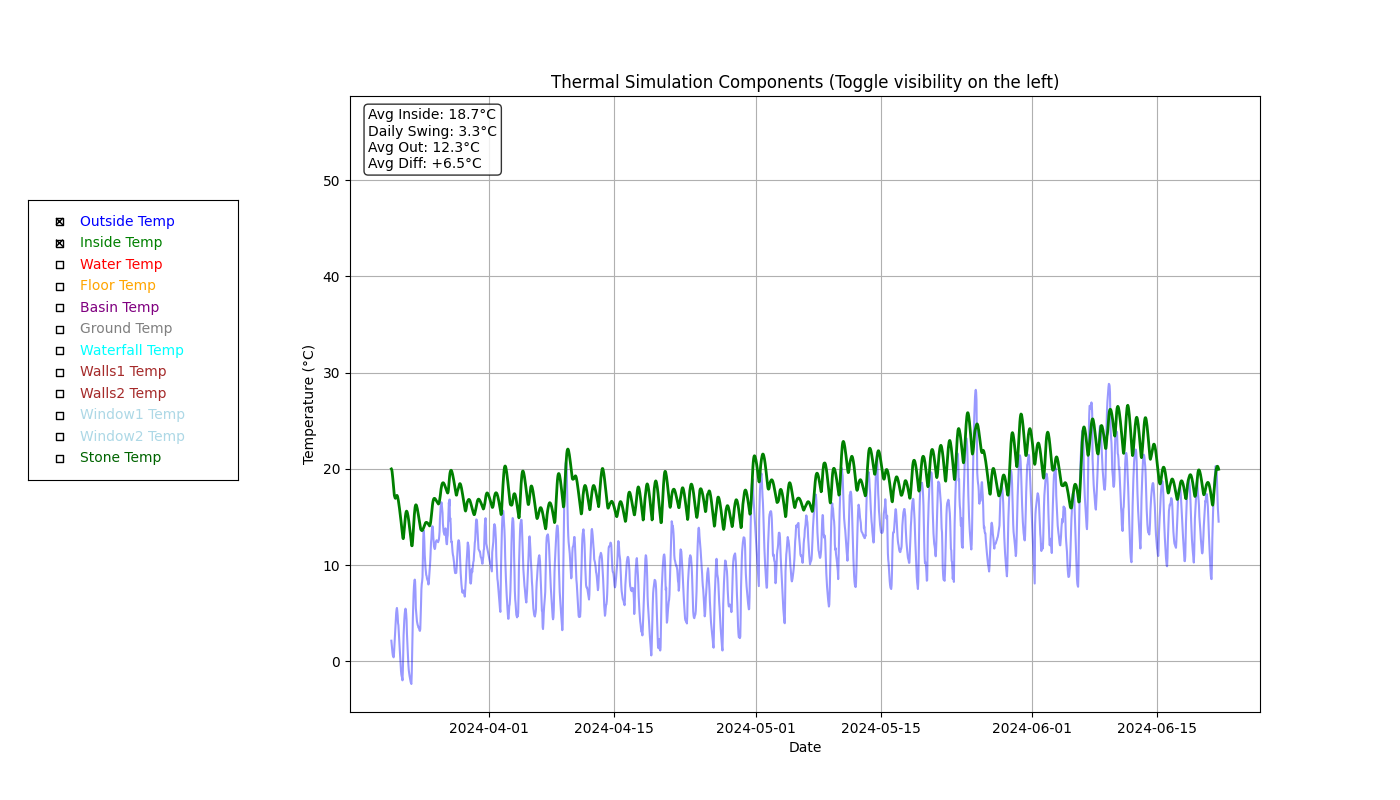
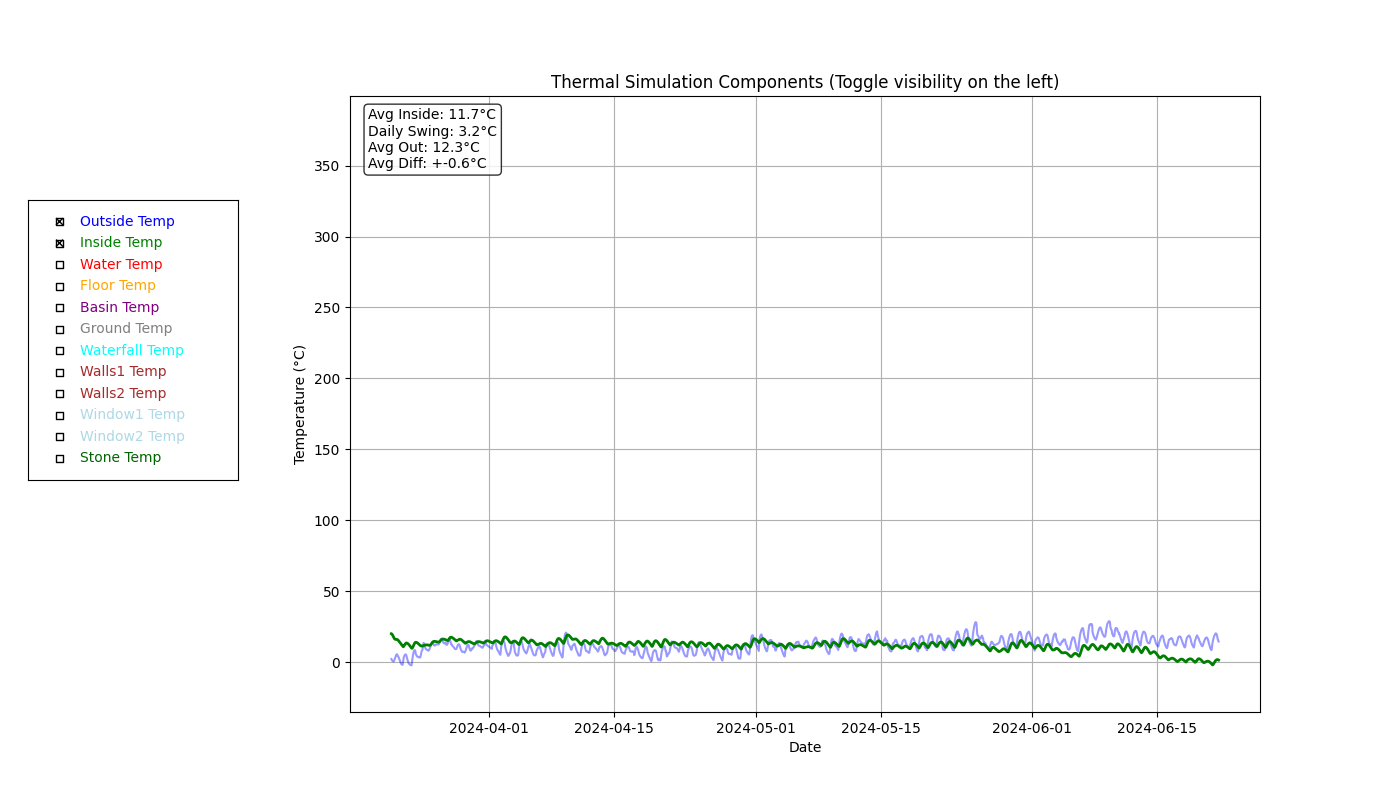
PID controller tests

diff --git a/Thermal_sim/AttemptingSomething/Thermal_simulation_updated_with_regulation.py b/Thermal_sim/AttemptingSomething/Thermal_simulation_updated_with_regulation.py
@@ -174,7 +174,7 @@ def run_thermal_simulation():
     # Initial conditions (K),  Needs update.
     T_in[0] = 273.15 + 20
     T_wat[0] = 273.15 + 20
-    T_basin[0] = 273.15 + 20
+    T_basin[0] = 273.15 + 60
     T_ground[0] = 273.15 + 20
     T_floor[0] = 273.15 + 20
     T_iso[0] = 273.15 + 20
@@ -208,7 +208,7 @@ def run_thermal_simulation():
     T_setpoint = 273.15+23
     K_p = 0.2          
     K_i = 0.01
-    k_ff = 0.04
+    k_ff = 0.01
     # Initialisation error
     error = np.zeros(hours)
     integral = np.zeros(hours)
@@ -225,26 +225,26 @@ def run_thermal_simulation():
         u = max(-1.0, min(1.0, u_tot))
 
         #Then we do cooling methods, first pump more water to basin, then pump water to waterfall, finally close shutter
-        if u <= 0.4:
+        if u <= 0.1:
             floor_filled = False
             waterfall_on = False
             m_dot_floor_active = 0
             m_dot_basin_active = u*m_dot_pump_max
             m_dot_fa_active = 0
             P_sun = power_per_m2_series[i]
-        elif u > 0.4 and u <= 0.75:
+        elif u > 0.1 and u <= 0.5:
             floor_filled = False
             waterfall_on = True
             m_dot_floor_active = 0
             m_dot_basin_active = u*m_dot_pump_max
-            m_dot_fa_active = ((u-0.4)/0.6)*m_dot_pump_max
+            m_dot_fa_active = ((u-0.1)/0.9)*m_dot_pump_max
             P_sun = power_per_m2_series[i]
-        elif u >0.75:
+        elif u >0.5:
             floor_filled = False
             waterfall_on = True
             m_dot_floor_active = 0
             m_dot_basin_active = u*m_dot_pump_max
-            m_dot_fa_active = ((u-0.4)/0.6)*m_dot_pump_max
+            m_dot_fa_active = ((u-0.1)/0.9)*m_dot_pump_max
             P_sun = power_per_m2_series[i] * (273.15 + 30 - T_in[i])/10
         #If we're below T_setpoint we heat with the floor
         else: